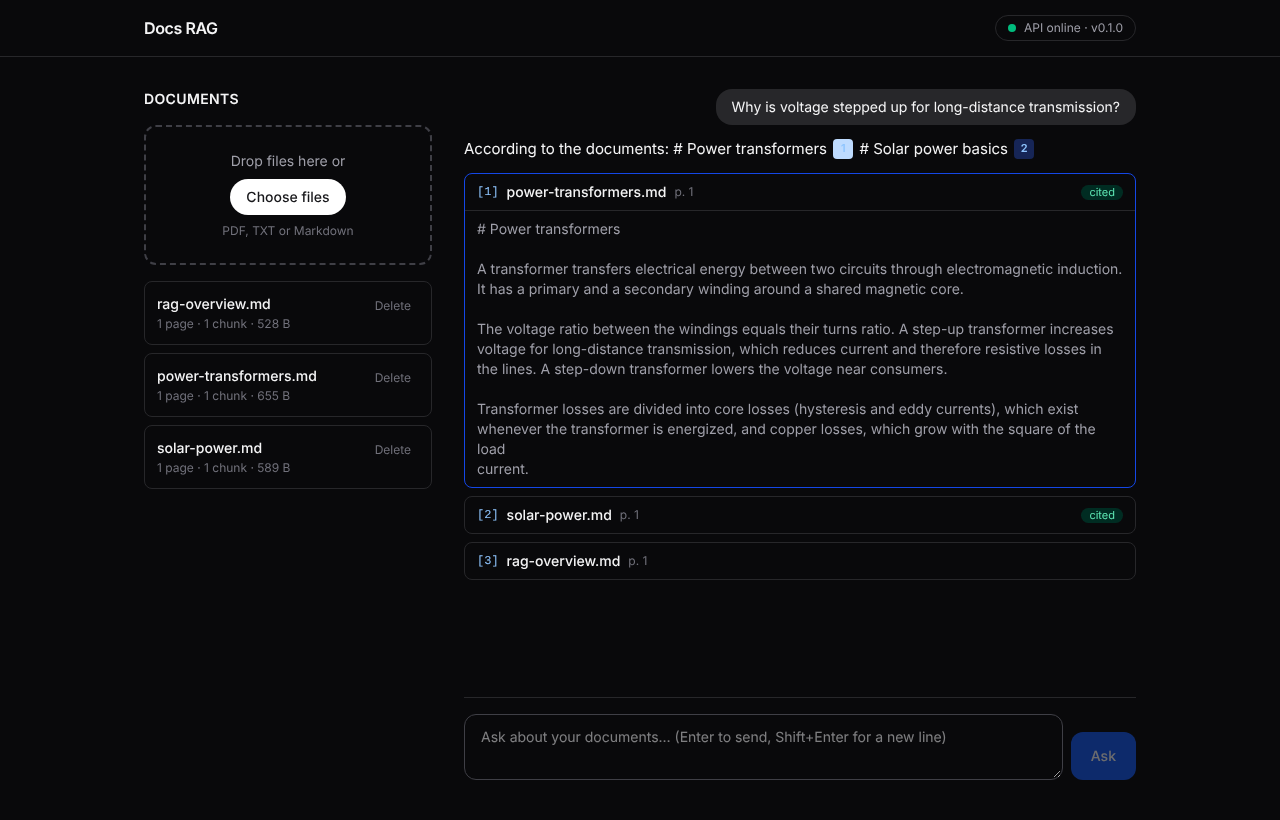
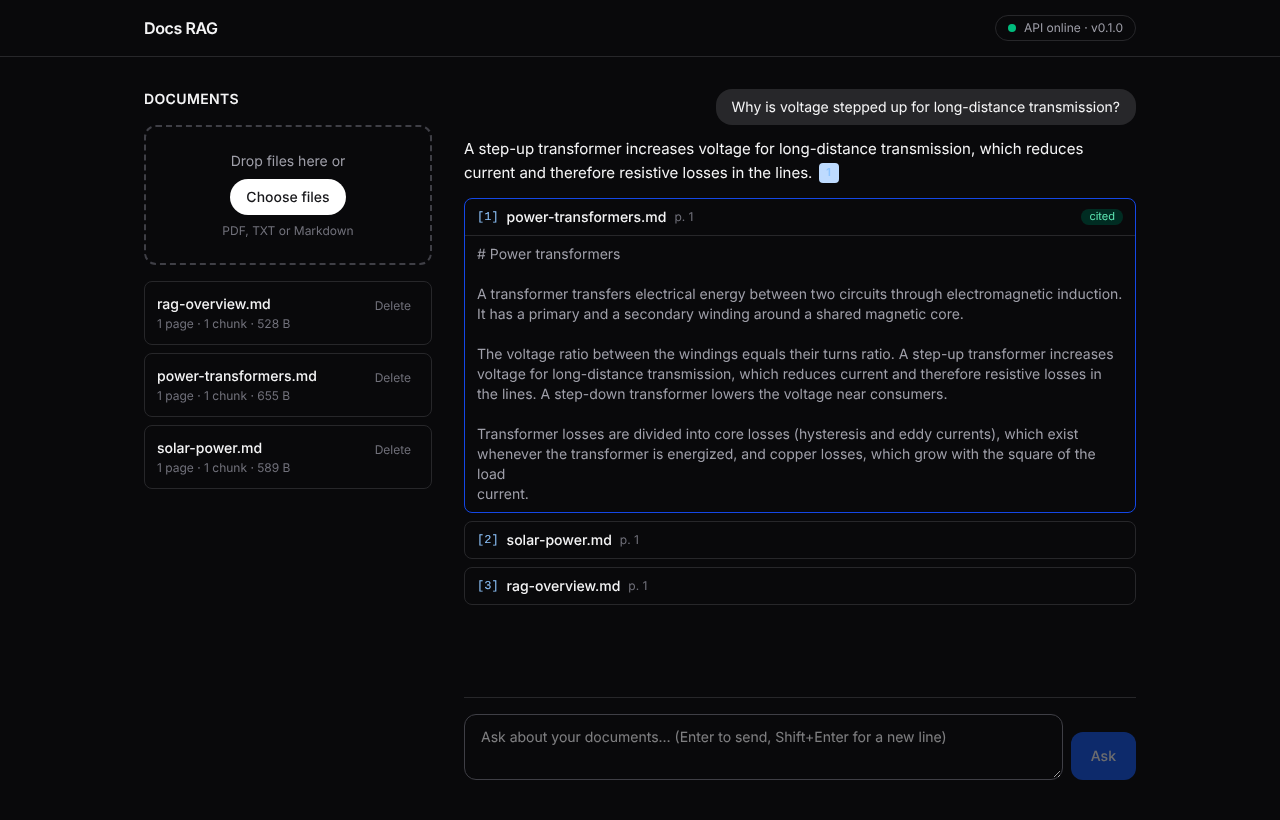
docs: write final README with screenshots, architecture and decisions
Describe the features, architecture (Mermaid diagram of the API,
services, providers and storage), tech stack, Docker and local setup,
provider configuration, testing and evaluation results, technical
decisions and project structure, with a Portuguese summary. Add light
and dark screenshots of the app answering with cited sources.

Changed region(s): [[0.375, 0.1524, 0.875, 0.7317], [0.8438, 0.2134, 0.875, 0.2744], [0.8438, 0.6098, 0.875, 0.6402]]

diff --git a/README.md b/README.md
@@ -1,56 +1,93 @@
 # Docs RAG
 
 [![CI](https://github.com/NicolasCardenass/docs-rag/actions/workflows/ci.yml/badge.svg)](https://github.com/NicolasCardenass/docs-rag/actions/workflows/ci.yml)
+[![License: MIT](https://img.shields.io/badge/license-MIT-blue.svg)](./LICENSE)
 
 > 🇧🇷 Resumo em português no [final deste arquivo](#resumo-em-português).
 
 **Chat with your documents.** Upload PDFs, text or Markdown files and ask questions in natural
-language; answers are generated by an LLM grounded on the most relevant passages of your documents,
-with citations pointing back to the sources.
+language. Answers are generated by an LLM grounded on the most relevant passages of your documents,
+streamed as they are written, with clickable citations pointing back to the exact passage, file and
+page.
 
-> 🚧 Work in progress — see the [roadmap](./ROADMAP.md).
+![Docs RAG answering a question with a cited source](./docs/screenshot-light.png)
 
-## How it works
+## Features
 
-Docs RAG implements **retrieval-augmented generation (RAG)**:
+- **Document ingestion** — PDF (page by page), plain text and Markdown; text normalization,
+  encoding fallback and clear errors for unsupported, empty or corrupted files.
+- **Smart chunking** — overlapping chunks that end at natural boundaries (paragraph, sentence,
+  word), validated with property-based tests.
+- **Semantic search** — embeddings stored in ChromaDB, cosine similarity, top-k and per-document
+  filters.
+- **Grounded answers with citations** — the LLM answers only from retrieved passages and cites them
+  as `[n]`; invalid citations are ignored and the model is not called when nothing relevant is
+  found.
+- **Streaming** — answers are streamed with Server-Sent Events and can be stopped from the UI.
+- **Pluggable providers** — embeddings (mock, OpenAI, Ollama) and LLMs (mock, OpenAI, Anthropic,
+  Ollama) selected by environment variables. The default mock providers run fully offline.
+- **Evaluation** — a labelled question set and a script reporting hit rate@k, MRR, citation accuracy
+  and keyword coverage.
+- **Production-minded** — typed configuration, strict typing, 100+ tests, Docker images, compose
+  setup and a CI pipeline that builds and smoke-tests the containers.
+
+<p align="center">
+  <img src="./docs/screenshot-dark.png" alt="Dark theme with several sources" width="720" />
+</p>
+
+## Architecture
 
 ```mermaid
 flowchart LR
-    subgraph Ingestion
-        A[Upload document] --> B[Extract text] --> C[Split into chunks] --> D[Embed chunks]
-        D --> E[(Vector store)]
+    subgraph Browser
+        UI[Next.js UI<br/>upload · chat · citations]
     end
-    subgraph Question answering
-        Q[Question] --> QE[Embed question] --> R[Retrieve top-k chunks]
-        E --> R
-        R --> P[Build prompt with context] --> L[LLM] --> ANS[Answer + citations]
+
+    subgraph API["FastAPI backend"]
+        DOCS["/documents"]
+        SEARCH["/search"]
+        CHAT["/chat · /chat/stream"]
+        DS[DocumentService]
+        RET[Retriever]
+        CS[ChatService]
     end
+
+    subgraph Providers
+        EMB[Embedder<br/>mock · OpenAI · Ollama]
+        LLM[ChatModel<br/>mock · OpenAI · Anthropic · Ollama]
+    end
+
+    VS[(ChromaDB<br/>chunk vectors)]
+    META[(documents.json<br/>metadata)]
+
+    UI -- upload --> DOCS --> DS
+    UI -- "question (SSE)" --> CHAT --> CS
+    SEARCH --> RET
+    DS -- extract · chunk --> EMB
+    DS --> VS
+    DS --> META
+    CS --> RET --> EMB
+    RET --> VS
+    CS --> LLM
 ```
 
-1. **Ingestion** — text is extracted from each document, split into overlapping chunks and converted
-   into embeddings stored in a vector database.
-2. **Retrieval** — the question is embedded and the most similar chunks are retrieved.
-3. **Generation** — the LLM answers using only the retrieved context and cites which chunks it used.
+**Ingestion:** extract text → split into overlapping chunks → embed → store vectors and metadata.
+**Question answering:** embed the question → retrieve the top-k chunks → build a prompt with
+numbered passages → the LLM answers citing `[n]` → the answer is streamed with its sources.
 
-## Planned stack
+Every external dependency sits behind a small interface (`Embedder`, `VectorStore`, `ChatModel`),
+and services are wired in one place (`create_app`). Swapping a provider is a configuration change,
+and tests use fakes without touching the network.
 
-| Part     | Technologies                                                                     |
-| -------- | -------------------------------------------------------------------------------- |
-| Backend  | Python 3.12, FastAPI, Pydantic, ChromaDB                                         |
-| AI       | Pluggable embedding and LLM providers: mock (default), OpenAI, Anthropic, Ollama |
-| Frontend | Next.js, TypeScript, Tailwind CSS                                                |
-| Tooling  | uv, ruff, mypy, pytest, Docker, GitHub Actions                                   |
+## Tech stack
 
-The default **mock** providers are deterministic, so the whole app runs and is tested without any
-API key; real providers are selected with environment variables.
-
-## Repository layout
-
-```text
-docs-rag/
-├── backend/    # Python API (FastAPI)
-└── frontend/   # Web UI (Next.js)
-```
+| Part     | Technologies                                                             |
+| -------- | ------------------------------------------------------------------------ |
+| Backend  | Python 3.12, FastAPI, Pydantic, pydantic-settings, ChromaDB, pypdf       |
+| AI       | OpenAI, Anthropic and Ollama providers, plus deterministic offline mocks |
+| Frontend | Next.js (App Router), React, TypeScript, Tailwind CSS                    |
+| Quality  | pytest, Hypothesis, ruff, mypy (strict), ESLint, Prettier                |
+| Delivery | uv, Docker (multi-stage, non-root), docker compose, GitHub Actions       |
 
 ## Getting started
 
@@ -60,14 +97,98 @@ docs-rag/
 docker compose up --build
 ```
 
-Open <http://localhost:3000> for the app and <http://localhost:8000/docs> for the API docs. Data is
-kept in the `docs-rag-data` volume. The app uses the offline mock providers by default; to use a
-real model, copy `backend/.env.example` to `backend/.env`, set the provider and API key, and run the
-command again.
+Open <http://localhost:3000> for the app and <http://localhost:8000/docs> for the interactive API
+documentation. Data is kept in the `docs-rag-data` volume.
+
+The app runs with the offline mock providers by default. To use real models, copy
+`backend/.env.example` to `backend/.env`, set for example:
+
+```dotenv
+DOCS_RAG_EMBEDDING_PROVIDER=openai
+DOCS_RAG_LLM_PROVIDER=anthropic
+DOCS_RAG_OPENAI_API_KEY=...
+DOCS_RAG_ANTHROPIC_API_KEY=...
+```
+
+and run the command again. For fully local models, use `ollama` for both providers. Changing the
+embedding provider requires re-uploading documents, since vectors from different models cannot be
+compared (the app refuses to mix them).
 
 ### Local development
 
-See [backend/README.md](./backend/README.md) and [frontend/README.md](./frontend/README.md).
+```bash
+# Backend (http://localhost:8000)
+cd backend && uv sync && uv run uvicorn docs_rag.main:app --reload
+
+# Frontend (http://localhost:3000), in another terminal
+cd frontend && npm install && npm run dev
+```
+
+See [backend/README.md](./backend/README.md) for the API reference, configuration, streaming
+format and evaluation, and [frontend/README.md](./frontend/README.md) for the UI.
+
+## Testing and evaluation
+
+```bash
+cd backend
+uv run pytest                                  # unit, API and property-based tests
+uv run python -m docs_rag.evaluation --top-k 3 # retrieval and answer quality report
+```
+
+| Metric (mock providers, bundled set) | Value |
+| ------------------------------------ | ----- |
+| Hit rate@3                           | 100%  |
+| MRR                                  | 0.81  |
+| Citation accuracy                    | 100%  |
+| Keyword coverage                     | 67%   |
+
+CI runs lint, type checks and tests for both apps, then builds the Docker images, starts the stack
+and smoke-tests upload, chat and the frontend.
+
+## Technical decisions
+
+- **Offline-first mocks.** Deterministic mock embeddings (hashing trick) and an extractive mock
+  model make the app runnable and testable without API keys, and keep tests fast and reproducible.
+- **Citations as a contract.** Passages are numbered in the prompt, the system prompt requires
+  `[n]` citations, and the backend validates them, so the UI can link every claim to its source.
+- **No context, no LLM call.** If retrieval finds nothing, the API answers that it could not find
+  the information instead of letting the model guess.
+- **One embedder per index.** The vector collection records which model produced it and refuses a
+  different one, preventing silently meaningless similarity scores.
+- **Streaming with SSE over POST.** Sources are sent first, then tokens; errors after the stream
+  starts are sent as an `error` event because the HTTP status can no longer change. The browser
+  reads the stream with `fetch`, since `EventSource` only supports GET.
+- **Simple persistence.** Document metadata lives in a JSON file written atomically: enough for a
+  single-process app and easy to replace with a database behind the same repository interface.
+
+## Project structure
+
+```text
+docs-rag/
+├── backend/
+│   ├── src/docs_rag/
+│   │   ├── api/          # FastAPI routers and dependencies
+│   │   ├── ingestion/    # Text extraction and chunking
+│   │   ├── embeddings/   # Embedding providers
+│   │   ├── llm/          # Chat model providers
+│   │   ├── store/        # Vector store interface and ChromaDB implementation
+│   │   ├── documents/    # Metadata repository and ingestion service
+│   │   ├── retrieval.py  # Semantic search
+│   │   ├── chat.py       # RAG prompt, answers and citations
+│   │   ├── evaluation.py # Quality metrics CLI
+│   │   └── main.py       # App factory and wiring
+│   ├── eval/             # Evaluation corpus and labelled questions
+│   └── tests/
+├── frontend/src/
+│   ├── components/       # Documents panel, chat, workspace
+│   └── lib/              # Typed API client, SSE parser, helpers
+├── compose.yaml
+└── .github/workflows/ci.yml
+```
+
+## Roadmap
+
+Development history is tracked in [ROADMAP.md](./ROADMAP.md).
 
 ## License
 
@@ -79,5 +200,11 @@ See [backend/README.md](./backend/README.md) and [frontend/README.md](./frontend
 
 **Docs RAG** permite conversar com seus documentos: você envia PDFs, textos ou arquivos Markdown e
 faz perguntas em linguagem natural. As respostas são geradas por um LLM com base nos trechos mais
-relevantes dos documentos (técnica de RAG, _retrieval-augmented generation_), sempre citando as
-fontes. O projeto está em desenvolvimento; o progresso está no [roadmap](./ROADMAP.md).
+relevantes dos documentos (técnica de RAG, _retrieval-augmented generation_), aparecem em tempo
+real (streaming) e trazem citações clicáveis que mostram o trecho, o arquivo e a página de origem.
+
+**Destaques:** backend em Python com FastAPI e ChromaDB, frontend em Next.js, provedores de IA
+intercambiáveis (OpenAI, Anthropic, Ollama ou modo offline sem chave), script de avaliação de
+qualidade, mais de 100 testes automatizados, Docker e CI com GitHub Actions.
+
+**Para rodar:** `docker compose up --build` e acesse <http://localhost:3000>.

diff --git a/ROADMAP.md b/ROADMAP.md
@@ -18,4 +18,4 @@
 - [x] Docker and docker-compose
 - [x] CI (ruff, mypy, pytest, frontend lint/build)
 - [x] Evaluation script with a small question set
-- [ ] Final README
+- [x] Final README
